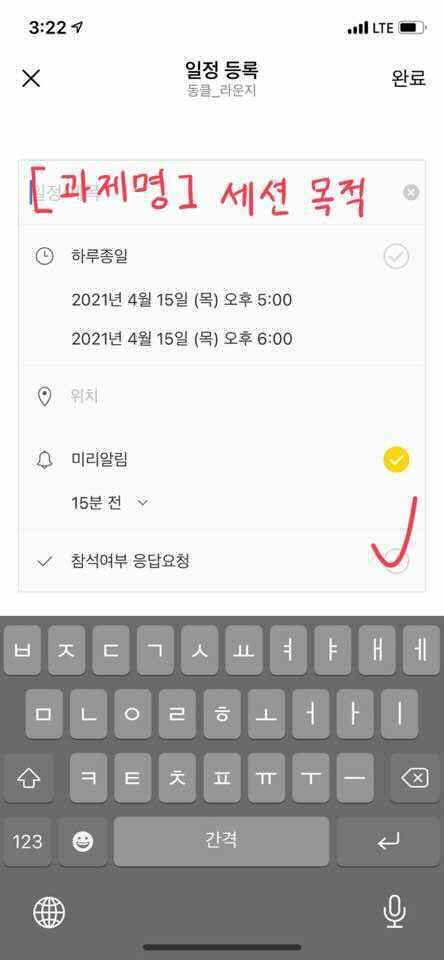
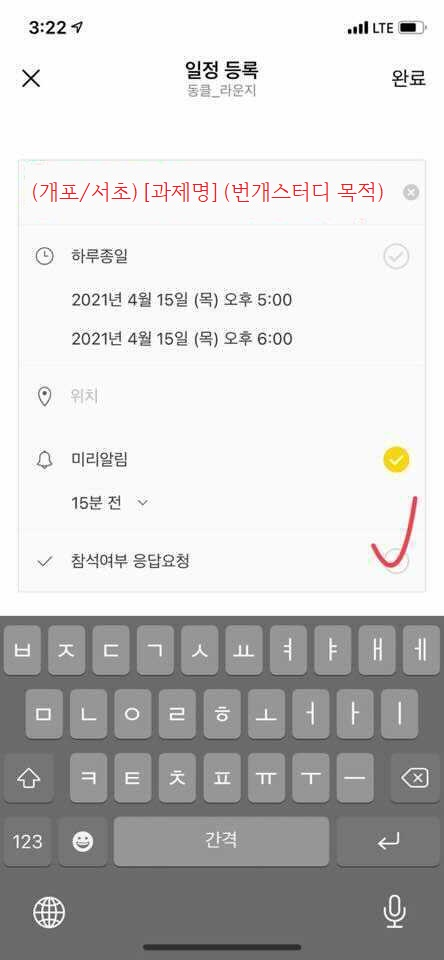
Update SessionRules.md(image4)

Changed region(s): [[0.0586, 0.1562, 0.8784, 0.25]]

diff --git a/Rules/sessionRule.md b/Rules/sessionRule.md
@@ -1,31 +1,35 @@
-### 📃 세션은 아래과 같이 열어주세요.
+## 📃 세션은 아래과 같이 열어주세요.
 
-1. 카카오톡 화면 오른쪽 위 설정버튼 클릭
+### 1. 카카오톡 화면 오른쪽 위 설정버튼 클릭
+
 <img src="./images/1.jpg" width="300" height="600">
 
-2. 캘린터 클릭
+### 2. 캘린터 클릭
+
 <img src="./images/2.jpg" width="300" height="600">
 
-3. 일정 등록 클릭
+### 3. 일정 등록 클릭
+
 <img src="./images/3.jpg" width="300" height="600">
 
-4. 일정 등록
+### 4. 일정 등록
+
 <img src="./images/4.jpg" width="300" height="600">
 
 ---
 
-### 📃 일정은 다음과 같이 등록해주세요.
+## 📃 일정은 다음과 같이 등록해주세요.
 
-1. **(개포/서초)[과제명]세션 목적**
+### 1. **(개포/서초)[과제명]세션 목적**
  
  >ex. (개포)[ft_services]yaml 파일 작성하는 법 같이 공부하실 분~
  
-2. 참석여부 응답요청도 체크해주세요!
+### 2. 참석여부 응답요청도 체크해주세요!
 
 ---
 
-### 📃세션 후에는 참여한 세션의 후기를 남겨주세요.
+## 📃세션 후에는 참여한 세션의 후기를 남겨주세요.
 
-번개스터디가 끝나면, 아래의 구글폼에 접속해서 후기를 남겨주세요!
+### 번개스터디가 끝나면, 아래의 구글폼에 접속해서 후기를 남겨주세요!
 
 https://forms.gle/7Rj1vCQjhzxgNo5d9
